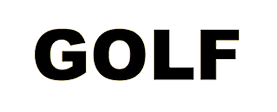
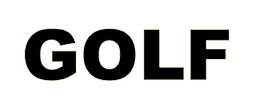
final updates

Changed region(s): [[0.093, 0.2432, 0.4961, 0.7297], [0.4651, 0.2432, 0.8992, 0.7297]]

diff --git a/index.html b/index.html
@@ -3,16 +3,17 @@
 <html>
   <head>
     <link rel="stylesheet" href="styles/styles.css">
-      <title>Tyler, the Creator</title>
+    <title>Tyler, the Creator</title>
   </head>
 
   <body>
-    <div><br>
-        <a href="index.html" class="button">HOME</a>
-        <a href="wolf.html" class="button">WOLF</a>
-        <a href="cherrybomb.html" class="button">CHERRY BOMB</a>
-        <a href="flowerboy.html" class="button">FLOWER BOY</a>
-        <a href="igor.html" class="button">IGOR</a>
+    <div>
+      <br>
+      <a href="index.html" class="button">HOME</a>
+      <a href="wolf.html" class="button">WOLF</a>
+      <a href="cherrybomb.html" class="button">CHERRY BOMB</a>
+      <a href="flowerboy.html" class="button">FLOWER BOY</a>
+      <a href="igor.html" class="button">IGOR</a>
     </div>
 
     <div><br><br><br>
@@ -24,7 +25,7 @@
     </div>
 
     <div><br>
-      <img src="images/boyisagun!.png" width="700" class="center" alt="Tyler in Concert">
+      <img src="images/boyisagun!.png" id="homeimg">
       <p class="intro">Tyler, the Creator, (real name Tyler Gregory Okonma) is a rapper, songwriter,
       singer, fashion designer, record producer, and more. He was born on March 6, 1991
       in Lader Heights, California. At the age of seven, he would begin to draw covers
@@ -35,25 +36,26 @@
       Frank Ocean, and Matt Martians. After being in Odd Future for some time, Tyler decided
       to try some solo work and released his debut solo album, B*st*rd. Within the
       next decade, he released five more albums. His most recent album, Igor,
-      was his first to debut at number on on the US Billboard 200.</p>
-      <img src="images/boyisagun2.jpg" width="700" class="center" alt="Tyler in a Striped Shirt">
+      was his first to debut at number one on the US Billboard.</p>
+      <img src="images/boyisagun2.jpg" width="700" class="center">
     </div>
 
     <div>
       <p class="intro">Tyler has created his own brand, called Golf Wang. Below is the logo of
       said brand, which is also a link his website.</p>
-      <a href="https://golfwang.com/"><img src="images/golfwang!.png" width="250" class="intro" alt="Golf Wang Logo"></a>
+      <br>
+      <a href="https://golfwang.com/"><img src="images/golfwang!.png" id="golf"></a>
     </div>
 
     <div>
-      <p>These are my top five favorite songs of his, as well as which album they are from.</p>
-      <ol type="1">
+      <p class="intro">These are my top five favorite songs of his, and the albums they are from.</p>
+      <ol type="1" class="center">
         <li>Find Your Wings (Cherry Bomb)</li>
         <li>A Boy is a Gun* (Igor)</li>
         <li>Castaway (Yuna's album, Rouge)</li>
         <li>After the Storm (Kali Uchis' album, Isolation)</li>
         <li>Where This Flower Blooms (Flower Boy)</li>
-        </ol>
+      </ol>
     </div>
 
     <div>

diff --git a/styles/styles.css b/styles/styles.css
@@ -1,5 +1,5 @@
 @import url('https://fonts.googleapis.com/css?family=Bungee+Hairline&display=swap');
-@import url('https://fonts.googleapis.com/css?family=Playfair+Display&display=swap');
+@import url('https://fonts.googleapis.com/css?family=Playfair+Display:400,700&display=swap');
 @import url('https://fonts.googleapis.com/css?family=Rajdhani:600&display=swap');
 @import url('https://fonts.googleapis.com/css?family=Forum|Pompiere&display=swap');
 
@@ -15,21 +15,21 @@ h1 {
   font-family: 'Bungee Hairline', cursive;
   font-size: 45px;
   font-weight: 700;
-  line-height: 24px
+  line-height: 24px;
 }
 h2 {
   color: #416650;
   font-family: 'Rajdhani', sans-serif;
   font-size: 32px;
   font-weight: 700;
-  line-height: 20px
+  line-height: 20px;
 }
 h3 {
   color: #5C5555;
   font-family: 'Rajdhani', sans-serif;
   font-size: 22px;
   font-weight: 700;
-  line-height: 17px
+  line-height: 17px;
 }
 p, a, ol, ul, table {
   font-family: 'Playfair Display', serif;
@@ -38,36 +38,16 @@ p, a, ol, ul, table {
   line-height: 20px;
   color: #0B1C20;
 }
-p.album{
-  margin-top: 80px;
-  margin-right: 75px;
-  margin-left: 150px;
-}
-p.intro{
-  margin-top: 50px;
-  margin-bottom: 50px;
-  margin-right: 100px;
-  margin-left: 100px;
-}
-a:link {
-  color: #5C5555;
-}
-a:visited {
-  color: #366147;
-}
-a:hover {
-  color: #297575;
-}
-a:active {
-  color: #93AF8E;
-}
-ul, ol {
-  list-style-position: inside;
-}
 img.float {
   float: right;
   margin-left: 75px;
   margin-right: 150px;
+}
+.intro {
+  margin-top: 50px;
+  margin-bottom: 50px;
+  margin-right: 100px;
+  margin-left: 100px;
 }
 .center {
   margin-left: auto;
@@ -85,4 +65,42 @@ img.float {
   font-family: 'Forum', cursive;
   font-size: 17px;
   margin: 35px;
+}
+.album {
+  margin-left: 150px;
+  margin-right: 75px;
+}
+#golf {
+  width: "250px";
+  margin-left: auto;
+  margin-right: auto;
+}
+#bathimg {
+  margin-left: auto;
+  margin-right: auto;
+  width: 700px;
+}
+#igortour {
+  text-decoration: none;
+  color: black;
+  background-color: #A3C4B1
+}
+a:link {
+  color: #5C5555;
+}
+a:visited {
+  color: #366147;
+}
+a:hover {
+  color: #297575;
+}
+a:active {
+  color: #93AF8E;
+}
+a[href="http://www.ucvts.tec.nj.us"],
+a[href="https://www.ucvts.tec.nj.us/Page/471"] {
+    color: #29656F
+}
+p + ul, p + ol {
+  list-style-position: inside;
 }

diff --git a/igor.html b/igor.html
@@ -7,12 +7,13 @@
   </head>
 
   <body>
-    <div><br>
-        <a href="index.html" class="button">HOME</a>
-        <a href="wolf.html" class="button">WOLF</a>
-        <a href="cherrybomb.html" class="button">CHERRY BOMB</a>
-        <a href="flowerboy.html" class="button">FLOWER BOY</a>
-        <a href="igor.html" class="button">IGOR</a>
+    <div>
+      <br>
+      <a href="index.html" class="button">HOME</a>
+      <a href="wolf.html" class="button">WOLF</a>
+      <a href="cherrybomb.html" class="button">CHERRY BOMB</a>
+      <a href="flowerboy.html" class="button">FLOWER BOY</a>
+      <a href="igor.html" class="button">IGOR</a>
     </div>
 
     <div>
@@ -39,15 +40,15 @@
         occasional heavier beat drops. Released on September 20th, 2019, was the music
         video for this song. There are no words to describe it except beautiful. There's
         a gorgeous teal and white theme going on, which makes the song seem lighter than
-        it is. Below are some stills from the video. All in all, I think that igor
+        it is. Below are some stills from the video. All in all, I think that Igor
         is Tyler, the Creator's best album to date.</p>
-        <br><br>
+      <br><br><br><br><br><br><br>
     </div>
 
     <div>
-      <p class="album">Tyler is currently on tour, performing his Igor setlist and more! You can buy tickets here:
-      <a href="https://golfwang.com/tour/">Igor Tour</a></p>
-      <br><br>
+      <p class="center">Tyler is currently on tour, performing his Igor setlist and more! You can buy tickets here:
+      <a href="https://golfwang.com/tour/" id="igortour">Igor Tour</a></p>
+      <br>
     </div>
 
     <div>
@@ -60,7 +61,7 @@
       <img src="images/boygun3.jpg" width="400" class="center" alt="boy is a gun still 3">
       <img src="images/boygun1.jpg" width="400" class="center" alt="boy is a gun still 1">
       <img src="images/boygun6.jpg" width="400" class="center" alt="boy is a gun still 6">
-      <div><br><br><br><br><br>
+      <br><br><br><br><br>
     </div>
 
     <div>

diff --git a/flowerboy.html b/flowerboy.html
@@ -3,23 +3,24 @@
 <html>
   <head>
     <link rel="stylesheet" href="styles/styles.css">
-      <title>Tyler, the Creator</title>
+    <title>Tyler, the Creator</title>
   </head>
 
   <body>
-    <div><br>
-        <a href="index.html" class="button">HOME</a>
-        <a href="wolf.html" class="button">WOLF</a>
-        <a href="cherrybomb.html" class="button">CHERRY BOMB</a>
-        <a href="flowerboy.html" class="button">FLOWER BOY</a>
-        <a href="igor.html" class="button">IGOR</a>
+    <div>
+      <br>
+      <a href="index.html" class="button">HOME</a>
+      <a href="wolf.html" class="button">WOLF</a>
+      <a href="cherrybomb.html" class="button">CHERRY BOMB</a>
+      <a href="flowerboy.html" class="button">FLOWER BOY</a>
+      <a href="igor.html" class="button">IGOR</a>
     </div>
 
     <div>
       <br><br><br>
       <header>
         <h1>Tyler, the Creator</h1>
-        <h2>ALBUM: Cherry Bomb</h2>
+        <h2>ALBUM: Flower Boy</h2>
         <h3>Released July 21, 2017</h3>
       </header>
     </div>
@@ -39,7 +40,7 @@
         instrumental with few vocals. Overall, I find Flower Boy to be my second favorite album
         (the first being IGOR). Though some of the songs sound rather similar, the pure
         diversity and switches between genres in some of the songs is masterful.  </p>
-      <br><br><br><br><br>
+      <br><br><br><br><br><br><br><br><br>
     </div>
 
     <div>

diff --git a/cherrybomb.html b/cherrybomb.html
@@ -3,16 +3,17 @@
 <html>
   <head>
     <link rel="stylesheet" href="styles/styles.css">
-      <title>Tyler, the Creator</title>
+    <title>Tyler, the Creator</title>
   </head>
 
   <body>
-    <div><br>
-        <a href="index.html" class="button">HOME</a>
-        <a href="wolf.html" class="button">WOLF</a>
-        <a href="cherrybomb.html" class="button">CHERRY BOMB</a>
-        <a href="flowerboy.html" class="button">FLOWER BOY</a>
-        <a href="igor.html" class="button">IGOR</a>
+    <div>
+      <br>
+      <a href="index.html" class="button">HOME</a>
+      <a href="wolf.html" class="button">WOLF</a>
+      <a href="cherrybomb.html" class="button">CHERRY BOMB</a>
+      <a href="flowerboy.html" class="button">FLOWER BOY</a>
+      <a href="igor.html" class="button">IGOR</a>
     </div>
 
     <div>

diff --git a/wolf.html b/wolf.html
@@ -3,16 +3,17 @@
 <html>
   <head>
     <link rel="stylesheet" href="styles/styles.css">
-      <title>Tyler, the Creator</title>
+    <title>Tyler, the Creator</title>
   </head>
 
   <body>
-    <div><br>
-        <a href="index.html" class="button">HOME</a>
-        <a href="wolf.html" class="button">WOLF</a>
-        <a href="cherrybomb.html" class="button">CHERRY BOMB</a>
-        <a href="flowerboy.html" class="button">FLOWER BOY</a>
-        <a href="igor.html" class="button">IGOR</a>
+    <div>
+      <br>
+      <a href="index.html" class="button">HOME</a>
+      <a href="wolf.html" class="button">WOLF</a>
+      <a href="cherrybomb.html" class="button">CHERRY BOMB</a>
+      <a href="flowerboy.html" class="button">FLOWER BOY</a>
+      <a href="igor.html" class="button">IGOR</a>
     </div>
 
     <div>
